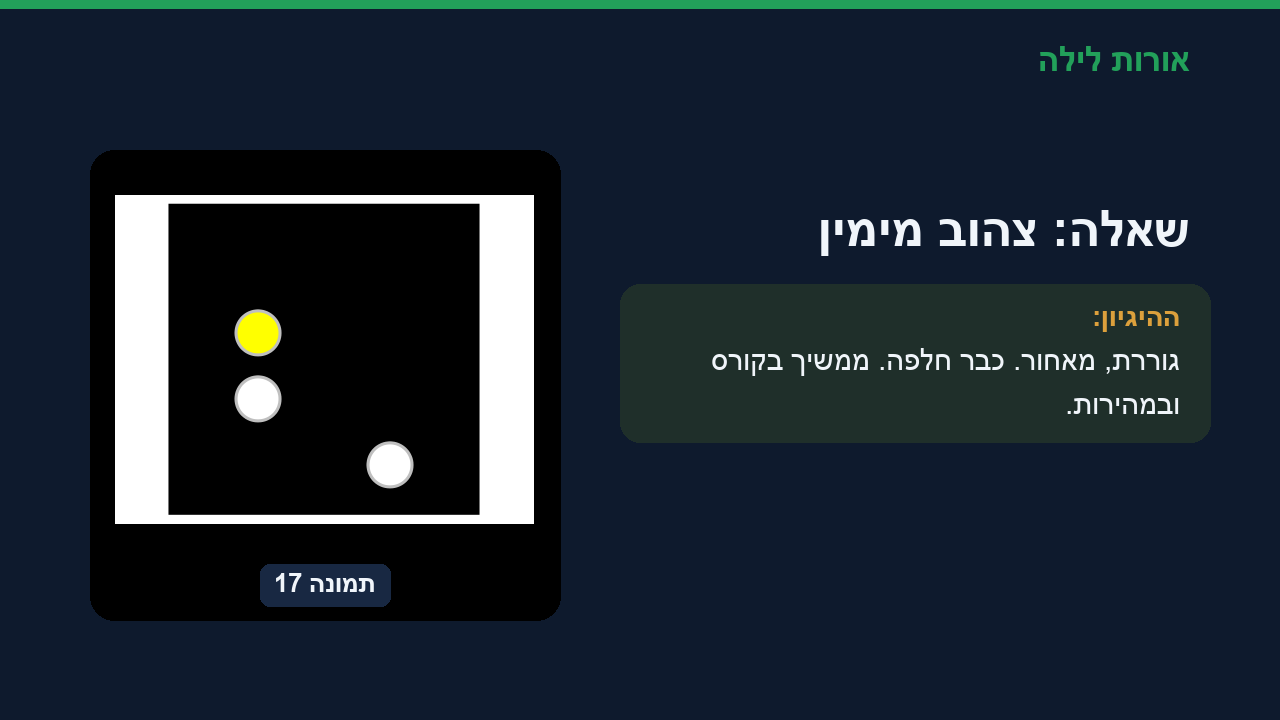
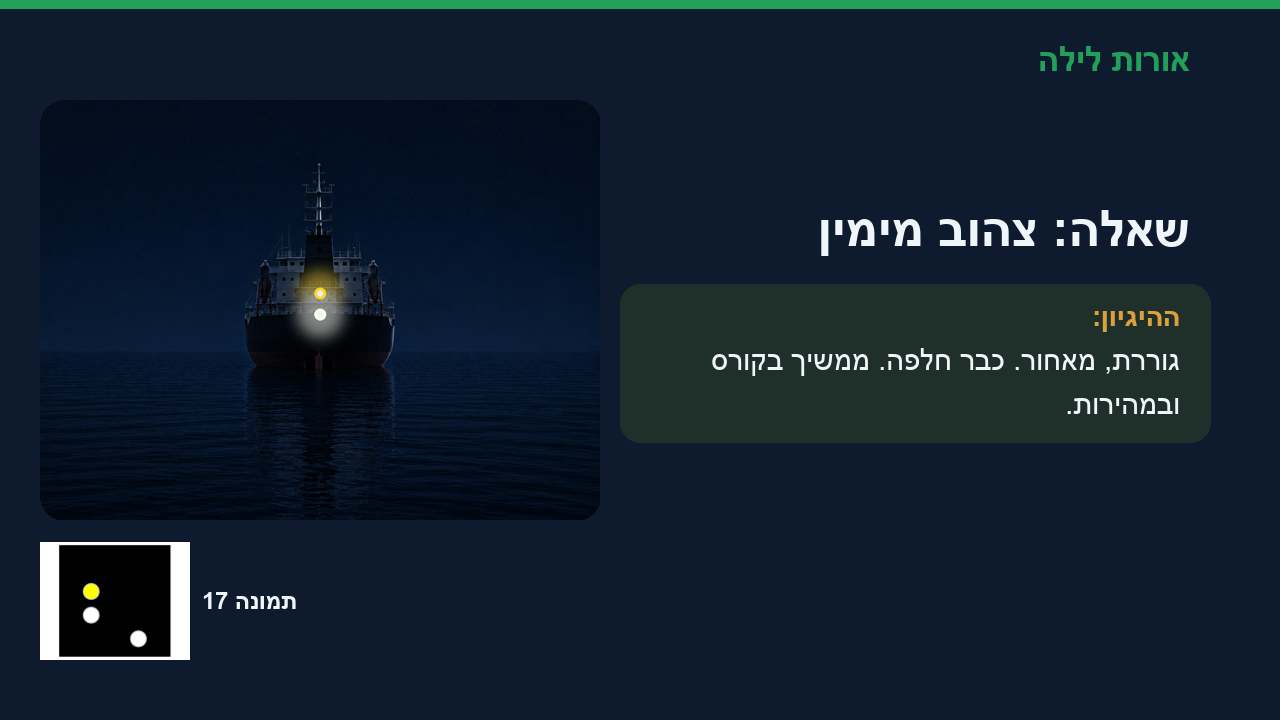
l12 אורות לילה: realistic night vessels with correct light arrays (media/vessels/night) on every card

Changed region(s): [[0.0312, 0.1833, 0.4688, 0.9167]]

diff --git a/lessons/l12/sources/cards_lights.py b/lessons/l12/sources/cards_lights.py
@@ -6,6 +6,12 @@ from bidi.algorithm import get_display
 ROOT = r"C:\Users\argov\OneDrive\Co-Work OS\SkipperQuiz"
 OUT = os.path.join(ROOT, "lessons", "l12", "cards", "אורות לילה")
 SIGNS = os.path.join(ROOT, "media", "signs")
+NIGHT = os.path.join(ROOT, "media", "vessels", "night")
+VESS = {"title": "power_big_bow", "s_groups": "power_big_port", "s_headon": "power_big_bow", "s_stern": "power_stern",
+  "s_method": "power_small_port", "s_white": "power_big_port", "s_sail": "sail_port", "s_pilot": "pilot_port",
+  "s_fish": "trawler_port", "s_rwr": "ram_port", "s_divers": "divers", "s_draft": "draft_port", "s_mines": "mines_port",
+  "s_nuc": "nuc_port", "s_aground": "aground_port", "s_anchor": "anchor_port", "s_tow": "tow_port", "s_yellow": "tow_stern",
+  "s_flash": "hover_port", "s_ex1": "tow_stern", "s_ex2": "pilot_port"}
 W, H = 1280, 720
 BG, BAR, PANEL, TXT, ORANGE, BLUE, LOGIC = "#0E1A2D", "#22A05A", "#182842", "#F0F5FA", "#DCA03C", "#5A96DC", "#1F2F2A"
 F = r"C:\Windows\Fonts\arialbd.ttf"
@@ -14,10 +20,10 @@ font = lambda s, b=True: ImageFont.truetype(F if b else FR, s)
 he = lambda t: get_display(t)
 
 CARDS = {
- "title":     ("אורות לילה", "רשיון סירת מנוע · מבחן תאוריה", "לא זוכרים תמונות בעל פה. מבינים את התמונה.", [5, 35, 6]),
+ "title":     ("אורות לילה", "רשיון סירת מנוע · מבחן תאוריה", "לא זוכרים תמונות בעל פה. מבינים את התמונה.", [5]),
  "s_groups":  ("שלוש קבוצות אורות", None, "ניווט: לאן הוא מפליג | גודל (לבן למעלה): יש מנוע | משפחה (360°): מי הוא", [15]),
  "s_sectors": ("אורות ניווט גזרתיים", None, "ירוק ימין, אדום שמאל: 112.5° כל אחד | לבן ירכתיים: 135°", "SECTORS"),
- "s_headon":  ("אדום וירוק יחד", None, "הוא בא ישר מולך. קורס התנגשות.", [1]),
+ "s_headon":  ("אדום וירוק יחד", None, "הוא בא ישר מולך. קורס התנגשות.", [5]),
  "s_stern":   ("רק לבן מאחור", None, "מאחור כולם נראים אותו דבר. בלי צבע מעליו: ממוכן או מפרשית.", [27]),
  "s_method":  ("השיטה: קו מעל אורות הניווט", None, "מתחת לקו: איפה הוא יחסית אליי | מעל הקו: מי הוא | ואז: מי מפנה", [30]),
  "s_rules":   ("אותם חוקי פינוי", None, "ממוכן ← מפרש ← דייג ← מוגבל ← חסר שליטה", "LADDER"),
@@ -94,6 +100,21 @@ def make(sid, spec):
     px, py, pw, ph = 90, 150, 470, 470
     if imgs == "SECTORS": sectors(c, d, px, py, pw, ph)
     elif imgs == "LADDER": ladder(d, px, py + 60, pw)
+    elif sid in VESS:
+        # realistic night vessel (media/vessels/night) + official exam image(s) underneath
+        vx, vy, vw, vh = 40, 100, 560, 420
+        vi = Image.open(os.path.join(NIGHT, VESS[sid] + ".jpg")).convert("RGB")
+        s = max(vw / vi.width, vh / vi.height); vi = vi.resize((int(vi.width * s), int(vi.height * s)))
+        l, t = (vi.width - vw) // 2, (vi.height - vh) // 2; vi = vi.crop((l, t, l + vw, t + vh))
+        m = Image.new("L", (vw, vh), 0); ImageDraw.Draw(m).rounded_rectangle((0, 0, vw, vh), 24, fill=255)
+        c.paste(vi, (vx, vy), m)
+        x = vx
+        for k in imgs:
+            im = sign(k, (150, 150)); yy = vy + vh + 22
+            c.paste(im, (x, yy))
+            tag = he(f"תמונה {k}"); f = font(24); tw = d.textlength(tag, font=f)
+            d.text((int(x + im.width + 12), yy + im.height // 2 - 14), tag, font=f, fill=TXT)
+            x = int(x + im.width + tw + 50)
     else:
         d.rounded_rectangle((px, py, px + pw, py + ph), 24, fill="#000000")
         n = len(imgs); cellw = (pw - 20) // n

diff --git a/media/vessels/night/compose_night.py b/media/vessels/night/compose_night.py
@@ -1,0 +1,43 @@
+"""Light up the unlit night vessel bases with the correct COLREGS light arrays (percent coords)."""
+import os, sys
+sys.path.insert(0, os.path.dirname(__file__))  # media/vessels/night
+from PIL import Image
+from lightup import lightup
+
+HERE = os.path.dirname(__file__)
+OUT = r"C:\Users\argov\OneDrive\Co-Work OS\SkipperQuiz\media\vessels\night"
+os.makedirs(OUT, exist_ok=True)
+
+C_MH_F, C_MH_A, C_RED_SIDE = (14.2, 41), (82, 33), (80.8, 51.4)   # cargo port view
+C_ANC_F, C_ANC_A = (14.2, 41), (95, 47)
+st = lambda x, ys, c: [(x, y, c) for y in ys]
+
+V = {
+ "power_big_port":   ("cargo_port",  [(*C_MH_F, "w"), (*C_MH_A, "w"), (*C_RED_SIDE, "r")]),
+ "power_big_bow":    ("cargo_bow",   [(50, 36, "w"), (50, 19.5, "w"), (38, 47, "g"), (62, 47, "r")]),
+ "power_stern":      ("cargo_stern", [(50, 51, "w")]),
+ "tow_stern":        ("cargo_stern", [(50, 46, "y"), (50, 51, "w")]),
+ "power_small_port": ("motor_port",  [(62, 35, "w"), (40, 49.5, "r")]),
+ "sail_port":        ("sail_port",   [(31.5, 72, "r")]),
+ "sail_optional":    ("sail_port",   [(48.8, 8.5, "r"), (48.8, 12.5, "g"), (31.5, 72, "r")]),
+ "pilot_port":       ("pilot_port",  [(56.5, 27, "w"), (56.5, 31.5, "r"), (41, 44, "r")]),
+ "trawler_port":     ("trawler_port", [(26.5, 24.5, "g"), (26.5, 29.5, "w"), (41, 45, "r")]),
+ "netfish_port":     ("netfish_port", [(37.8, 25, "r"), (37.8, 30, "w"), (56, 50, "r")]),
+ "ram_port":         ("work_port",   [(35.8, 23.5, "w"), (35.8, 28.5, "r"), (35.8, 33, "w"), (35.8, 37.5, "r"), (25, 46, "r")]),
+ "divers":           ("work_port",   [(35.8, 28.5, "r"), (35.8, 33, "w"), (35.8, 37.5, "r")]),
+ "draft_port":       ("cargo_port",  [(*C_MH_F, "w"), (*C_MH_A, "w")] + st(82, [37.5, 41.5, 45.5], "r") + [(*C_RED_SIDE, "r")]),
+ "mines_port":       ("mines_port",  [(46.8, 22, "g"), (42, 26.8, "g"), (51.5, 26.8, "g"), (46.3, 31.5, "w"), (38, 46, "r")]),
+ "nuc_port":         ("cargo_port",  [(82, 33, "r"), (82, 37.5, "r"), (*C_RED_SIDE, "r")]),
+ "aground_port":     ("cargo_port",  [(*C_ANC_F, "w"), (*C_ANC_A, "w"), (82, 33, "r"), (82, 37.5, "r")]),
+ "anchor_port":      ("cargo_port",  [(*C_ANC_F, "w"), (*C_ANC_A, "w")]),
+ "tow_port":         ("tug_port",    [(17.8, 37, "w"), (17.8, 43, "w"), (14.5, 54, "r"), (50.5, 58.5, "r")]),
+ "hover_port":       ("hover_port",  [(37, 29.5, "y"), (37, 34, "w"), (24, 45, "r")]),
+}
+
+for name, (base, lights) in V.items():
+    src = os.path.join(HERE, "src", base + ".jpg")
+    W, H = Image.open(src).size
+    r = max(9, int(W * 0.011))
+    spec = ";".join(f"{int(x * W / 100)},{int(y * H / 100)},{c},{r}" for x, y, c in lights)
+    lightup(src, os.path.join(OUT, name + ".jpg"), spec)
+print(len(V), "images ->", OUT)

diff --git a/media/vessels/night/lightup.py b/media/vessels/night/lightup.py
@@ -1,0 +1,27 @@
+"""Overlay navigation lights (glowing dots) on an unlit night vessel image.
+usage: python lightup.py <in.png> <out.png> "<x,y,color[,r]>;..."   colors: w r g y
+"""
+import sys
+from PIL import Image, ImageDraw, ImageFilter
+
+COL = {"w": (255, 255, 240), "r": (255, 40, 30), "g": (40, 255, 90), "y": (255, 210, 40)}
+
+def lightup(src, dst, spec):
+    base = Image.open(src).convert("RGB")
+    glow = Image.new("RGB", base.size, (0, 0, 0))
+    core = Image.new("RGBA", base.size, (0, 0, 0, 0))
+    gd, cd = ImageDraw.Draw(glow), ImageDraw.Draw(core)
+    for item in spec.split(";"):
+        p = item.split(","); x, y, c = int(p[0]), int(p[1]), p[2]; r = int(p[3]) if len(p) > 3 else 9
+        col = COL[c]
+        gd.ellipse((x - r * 4, y - r * 4, x + r * 4, y + r * 4), fill=tuple(v // 2 for v in col))
+        cd.ellipse((x - r, y - r, x + r, y + r), fill=col + (255,))
+        cd.ellipse((x - r // 2, y - r // 2, x + r // 2, y + r // 2), fill=(255, 255, 255, 230))
+    glow = glow.filter(ImageFilter.GaussianBlur(14))
+    from PIL import ImageChops
+    out = ImageChops.screen(base, glow)
+    out.paste(core, (0, 0), core)
+    out.save(dst)
+
+if __name__ == "__main__":
+    lightup(sys.argv[1], sys.argv[2], sys.argv[3])

diff --git a/media/vessels/README.md b/media/vessels/README.md
@@ -28,3 +28,9 @@
 הכלי מסומן דרך `crBoat`, האות דרך `crVesselLabel`, והסימן (יום/דגל/אות-קולי) בכרטיס מעל
 האות דרך `crSignCardAbove`. בסיס ה-URL: `media/vessels` דרך raw.githubusercontent
 (עוקף ע"י ה-global `VESSEL_IMG_BASE` לרינדור מקומי לפני push).
+
+## כלי שייט בלילה עם אורות (נוסף 2026-10-05, שיעור אורות לילה l12)
+`night/` = תמונות ריאליסטיות (מבט צד/חרטום/ירכתיים) עם מערך האורות הנכון לכל משפחה, לשימוש בכרטיסי שיעור.
+- `night/src/*.jpg` = בסיסים **בלי אורות** (gpt_image_2_5 ב-Higgsfield, "ALL lights OFF"). ה-AI לא מצייר אורות, כי הוא טועה בהם.
+- האורות מצוירים בקוד: `python media/vessels/night/compose_night.py` (מיקומים באחוזים לכל בסיס, `lightup.py` מצייר נקודה זוהרת). לתיקון אור, מתקנים את הקואורדינטה ב-`V` ומריצים שוב.
+- משפחות: ממוכן גדול (צד/חרטום/ירכתיים), ממוכן קטן, מפרשית (+אורות רשות), נתב, מכמורתן, דייג רשתות, מוגבל (RAM), ספינת צוללנים, מוגבל בשוקע, שולת מוקשים, חסר שליטה, שרטון, עוגן, גוררת (צד + צהוב מאחור), רחפת.
